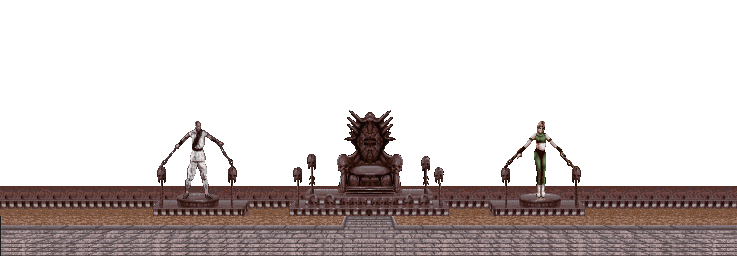
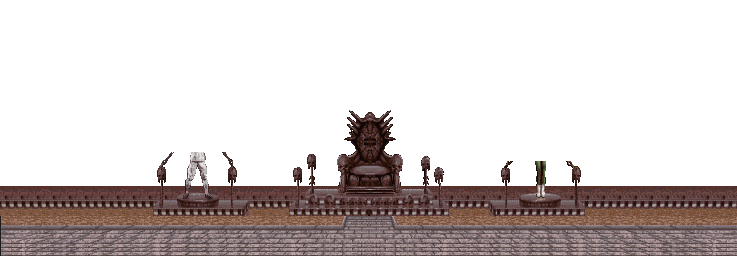
kahn arena way better

Changed region(s): [[0.6866, 0.4688, 0.7802, 0.625], [0.2185, 0.4688, 0.3121, 0.5938]]

diff --git a/home.js b/home.js
@@ -437,6 +437,40 @@ function main(){
 		}
 	}
 
+	class SonyaChains extends VisualObject{
+		static poslist = [2,3,4,4,3,2,3,4,3,2];
+		static anim_speed = 7;
+		constructor(x,y){
+			super(x,y,1,propspng,"sonyachains1",propscoordinates,10,-1);
+			this.cost_cpt = 0;
+		}
+		afficher(){
+			this.cost_cpt=(this.cost_cpt+1)%110;
+			var n = 1;
+			if(this.cost_cpt>=SonyaChains.poslist.length*SonyaChains.anim_speed){n=1;}
+			else{n=SonyaChains.poslist[Math.floor(this.cost_cpt/SonyaChains.anim_speed)]}
+			this.costume = "sonyachains"+n.toString();
+			this.drawSkincolleLeft(76);
+		}
+	}
+
+	class KanoChains extends VisualObject{
+		static poslist = [2,3,4,4,3,2,3,4,3,2,1,1,1,5,6,7,7,6,7,6,5];
+		static anim_speed = 7;
+		constructor(x,y){
+			super(x,y,1,propspng,"kanochains1",propscoordinates,10,-1);
+			this.cost_cpt = 0;
+		}
+		afficher(){
+			this.cost_cpt=(this.cost_cpt+1)%200;
+			var n = 1;
+			if(this.cost_cpt>=KanoChains.poslist.length*KanoChains.anim_speed){n=1;}
+			else{n=KanoChains.poslist[Math.floor(this.cost_cpt/KanoChains.anim_speed)]}
+			this.costume = "kanochains"+n.toString();
+			this.drawSkincolleLeft(75);
+		}
+	}
+
 
 	class Blood extends VisualObject
 	{
@@ -4351,7 +4385,12 @@ function main(){
 						if(this.falling==0){this.falling = 1;}
 						this.crouching = 0;
 						play_sound_eff(this.charac.voiceactor+"hurted");
-						if(Math.random()<stats.degats/25){play_sound_eff("compliment");}
+						if(Math.random()<stats.degats/25){
+							if(chosenstage!=numberofstages){play_sound_eff("compliment");}
+						}
+						if(chosenstage==numberofstages && stats.degats>4){
+							if(this.other.mov == "huppercut" || this.other.perso=="shao_kahn"){play_sound_eff("crowdcheers");}
+						}
 						if(stats.hiteffect=="fall_bounce"){this.bouncing=true;fixcamera=60;}
 						if(racine(other.mov)=="shadowkick" || racine(other.mov)=="shadowpunch"){other.memoryslot=1;}
 						this.shake_player(stats.hitlag,stats.degats*0.3);
@@ -6108,6 +6147,8 @@ function main(){
 			for(var i=-3;i<5;i++){
 				add_to_objects_set(new CrowdShao(-30+71*i,59));
 			}
+			add_to_objects_set(new SonyaChains(169,73));
+			add_to_objects_set(new KanoChains(-177,72));
 		}
 	}
 
@@ -7155,6 +7196,7 @@ function main(){
 	sounds_eff.set("67",[document.querySelector('#el67wav')]);
 	sounds_eff.set("jumpscare",[document.querySelector('#jumpscarewav')]);
 	sounds_eff.set("whirlwind",[document.querySelector('#whirlwindwav')]);
+	sounds_eff.set("crowdcheers",[document.querySelector('#crowdcheerswav')]);
 
 	var friendshipwav = document.querySelector('#friendshipwav');
 

diff --git a/costumescoordinates.js b/costumescoordinates.js
@@ -1922,6 +1922,17 @@ function getpropscoordinates(){
 	propscoordinates.set("crowd1",{offx:13,width:64,offy:518,height:24,decx:0,decy:0});
 	propscoordinates.set("crowd2",{offx:13,width:64,offy:550,height:24,decx:0,decy:0});
 	propscoordinates.set("crowd3",{offx:13,width:64,offy:582,height:24,decx:0,decy:0});
+	propscoordinates.set("sonyachains1",{offx:105,width:76,offy:642,height:47,decx:-1,decy:0});
+	propscoordinates.set("sonyachains2",{offx:210,width:75,offy:642,height:47,decx:0,decy:0});
+	propscoordinates.set("sonyachains3",{offx:314,width:75,offy:642,height:47,decx:0,decy:0});
+	propscoordinates.set("sonyachains4",{offx:417,width:76,offy:642,height:47,decx:-1,decy:0});
+	propscoordinates.set("kanochains1",{offx:99,width:76,offy:530,height:47,decx:0,decy:0});
+	propscoordinates.set("kanochains2",{offx:203,width:75,offy:531,height:46,decx:0,decy:0});
+	propscoordinates.set("kanochains3",{offx:307,width:75,offy:530,height:47,decx:0,decy:0});
+	propscoordinates.set("kanochains4",{offx:411,width:75,offy:530,height:47,decx:0,decy:0});
+	propscoordinates.set("kanochains5",{offx:99,width:75,offy:586,height:47,decx:0,decy:0});
+	propscoordinates.set("kanochains6",{offx:203,width:75,offy:586,height:47,decx:0,decy:0});
+	propscoordinates.set("kanochains7",{offx:307,width:75,offy:587,height:46,decx:0,decy:0});
 	return propscoordinates;
 }
 

diff --git a/index.html b/index.html
@@ -65,6 +65,7 @@
 <audio id="magicshot2wav" src="ressource/sound_effects/magic_shot2.mp3"></audio>
 <audio id="appearwav" src="ressource/sound_effects/M3_PowerUpItemAppear.mp3"></audio>
 <audio id="whirlwindwav" src="ressource/sound_effects/whirlwind.mp3"></audio>
+*<audio id="crowdcheerswav" src="ressource/sound_effects/crowd_cheers.mp3"></audio>
 
 <audio id="fightwav" src="ressource/sound_effects/fight.mp3"></audio>
 <audio id="round1wav" src="ressource/sound_effects/round1.wav"></audio>
